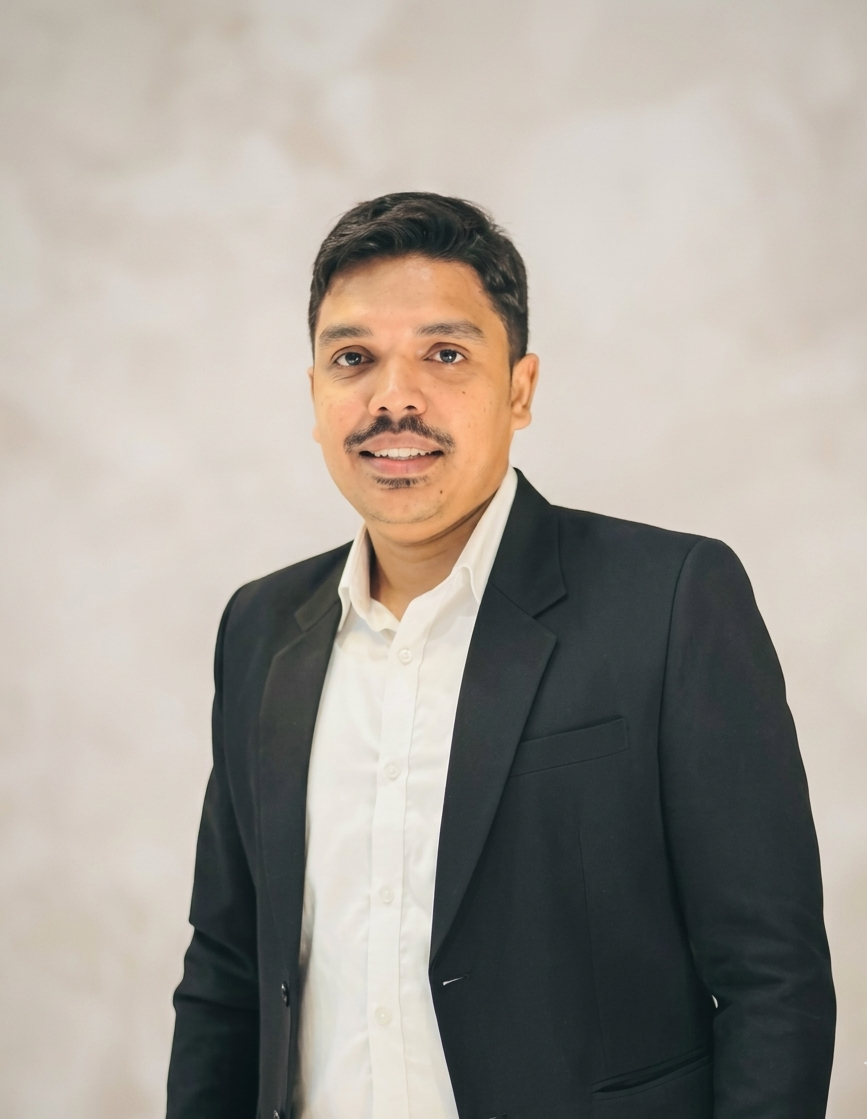
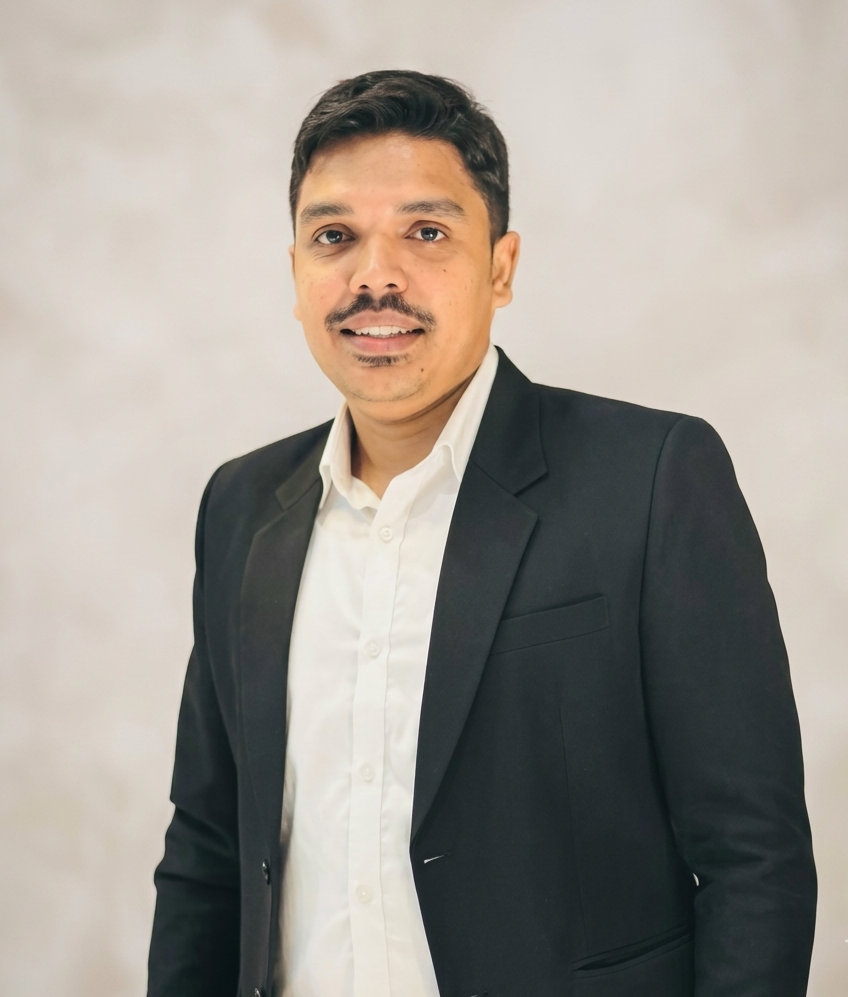
add links

diff --git a/index.html b/index.html
@@ -300,7 +300,7 @@
         <img class="project-img" src="image/project 1.png" alt="3D Design Portfolio"
           onerror="this.style.background='linear-gradient(135deg,#1a1a3e,#0a2a40)';this.style.minHeight='340px';this.removeAttribute('src')">
         <div class="project-img-overlay"></div>
-        <a href="https://aharazzak.github.io/Portfolio/" target="_blank" class="project-live-btn">
+        <a href=" https://abdulrazzak-dev.github.io/Portfolio/" target="_blank" class="project-live-btn">
           <span class="project-live-dot"></span> Live Site
         </a>
       </div>
@@ -314,7 +314,7 @@
         <div class="project-name">3D Design Portfolio</div>
         <div class="project-desc">A full personal portfolio site with an animated 3D hero built in Spline, smooth scroll transitions, custom cursor, preloader sequence, and a dark cyberpunk aesthetic — fully responsive and performance-optimised.</div>
         <div class="project-footer">
-          <a href="https://aharazzak.github.io/Portfolio/" target="_blank" class="project-link">
+          <a href=" https://abdulrazzak-dev.github.io/Portfolio/" target="_blank" class="project-link">
             View Live Project <i class="fa-solid fa-arrow-right"></i>
           </a>
         </div>
@@ -328,7 +328,7 @@
         <img class="project-img" src="image/Project 2.png" alt="Golden Electrical"
           onerror="this.style.background='linear-gradient(135deg,#2a1a00,#0a0a2a)';this.style.minHeight='220px';this.removeAttribute('src')">
         <div class="project-img-overlay"></div>
-        <a href="https://aharazzak.github.io/Project--Electrical-web-sit-/" target="_blank" class="project-live-btn">
+        <a href=" https://abdulrazzak-dev.github.io/golden-electrical-storefront/" target="_blank" class="project-live-btn">
           <span class="project-live-dot"></span> Live Site
         </a>
       </div>
@@ -342,7 +342,7 @@
         <div class="project-name">Golden Electrical</div>
         <div class="project-desc">Product catalogue website for an electrical manufacturer — features animated hero, product listings, quote system, and a clean business-focused design.</div>
         <div class="project-footer">
-          <a href="https://aharazzak.github.io/Project--Electrical-web-sit-/" target="_blank" class="project-link">
+          <a href=" https://abdulrazzak-dev.github.io/golden-electrical-storefront/" target="_blank" class="project-link">
             View Live Project <i class="fa-solid fa-arrow-right"></i>
           </a>
         </div>
@@ -356,7 +356,7 @@
         <img class="project-img" src="image/project 3.png" alt="Sweet Delights Bakery"
           onerror="this.style.background='linear-gradient(135deg,#2a0a1a,#0a0a2a)';this.style.minHeight='220px';this.removeAttribute('src')">
         <div class="project-img-overlay"></div>
-        <a href="https://aharazzak.github.io/Web-Designs---New-project-mora-/" target="_blank" class="project-live-btn">
+        <a href=" https://abdulrazzak-dev.github.io/sweet-delights-bakery/" target="_blank" class="project-live-btn">
           <span class="project-live-dot"></span> Live Site
         </a>
       </div>
@@ -369,7 +369,7 @@
         <div class="project-name">Sweet Delights Bakery</div>
         <div class="project-desc">Warm and inviting bakery website with elegant typography, product showcase gallery, and integrated contact form — a clean, conversion-focused design.</div>
         <div class="project-footer">
-          <a href="https://aharazzak.github.io/Web-Designs---New-project-mora-/" target="_blank" class="project-link">
+          <a href=" https://abdulrazzak-dev.github.io/sweet-delights-bakery/" target="_blank" class="project-link">
             View Live Project <i class="fa-solid fa-arrow-right"></i>
           </a>
         </div>
@@ -483,9 +483,9 @@
   </div>
   <button class="form-submit" onclick="handleSubmit()">Send Message ✦</button>
   <div class="social-row reveal">
-    <a href="https://github.com/aharazzak" target="_blank" class="social-btn" title="GitHub"><i class="fa-brands fa-github"></i></a>
-    <a href="https://www.linkedin.com/in/abdul-razzak-webdevloper" target="_blank" class="social-btn" title="LinkedIn"><i class="fa-brands fa-linkedin-in"></i></a>
-    <a href="https://x.com/abdulrazzak" target="_blank" class="social-btn" title="X"><i class="fa-brands fa-x-twitter"></i></a>
+    <a href="https://github.com/abdulrazzak-dev" target="_blank" class="social-btn" title="GitHub"><i class="fa-brands fa-github"></i></a>
+    <a href="https://www.linkedin.com/in/aha-razzak" target="_blank" class="social-btn" title="LinkedIn"><i class="fa-brands fa-linkedin-in"></i></a>
+    <a href="https://x.com/abdulrazzak" target="_blank" class="social-btn" title="X"><i class="fa-brands fa-x"></i></a>
     <a href="mailto:hameedabdulrazzak" class="social-btn" title="Email"><i class="fa-regular fa-envelope"></i></a>
   </div>
 </section>